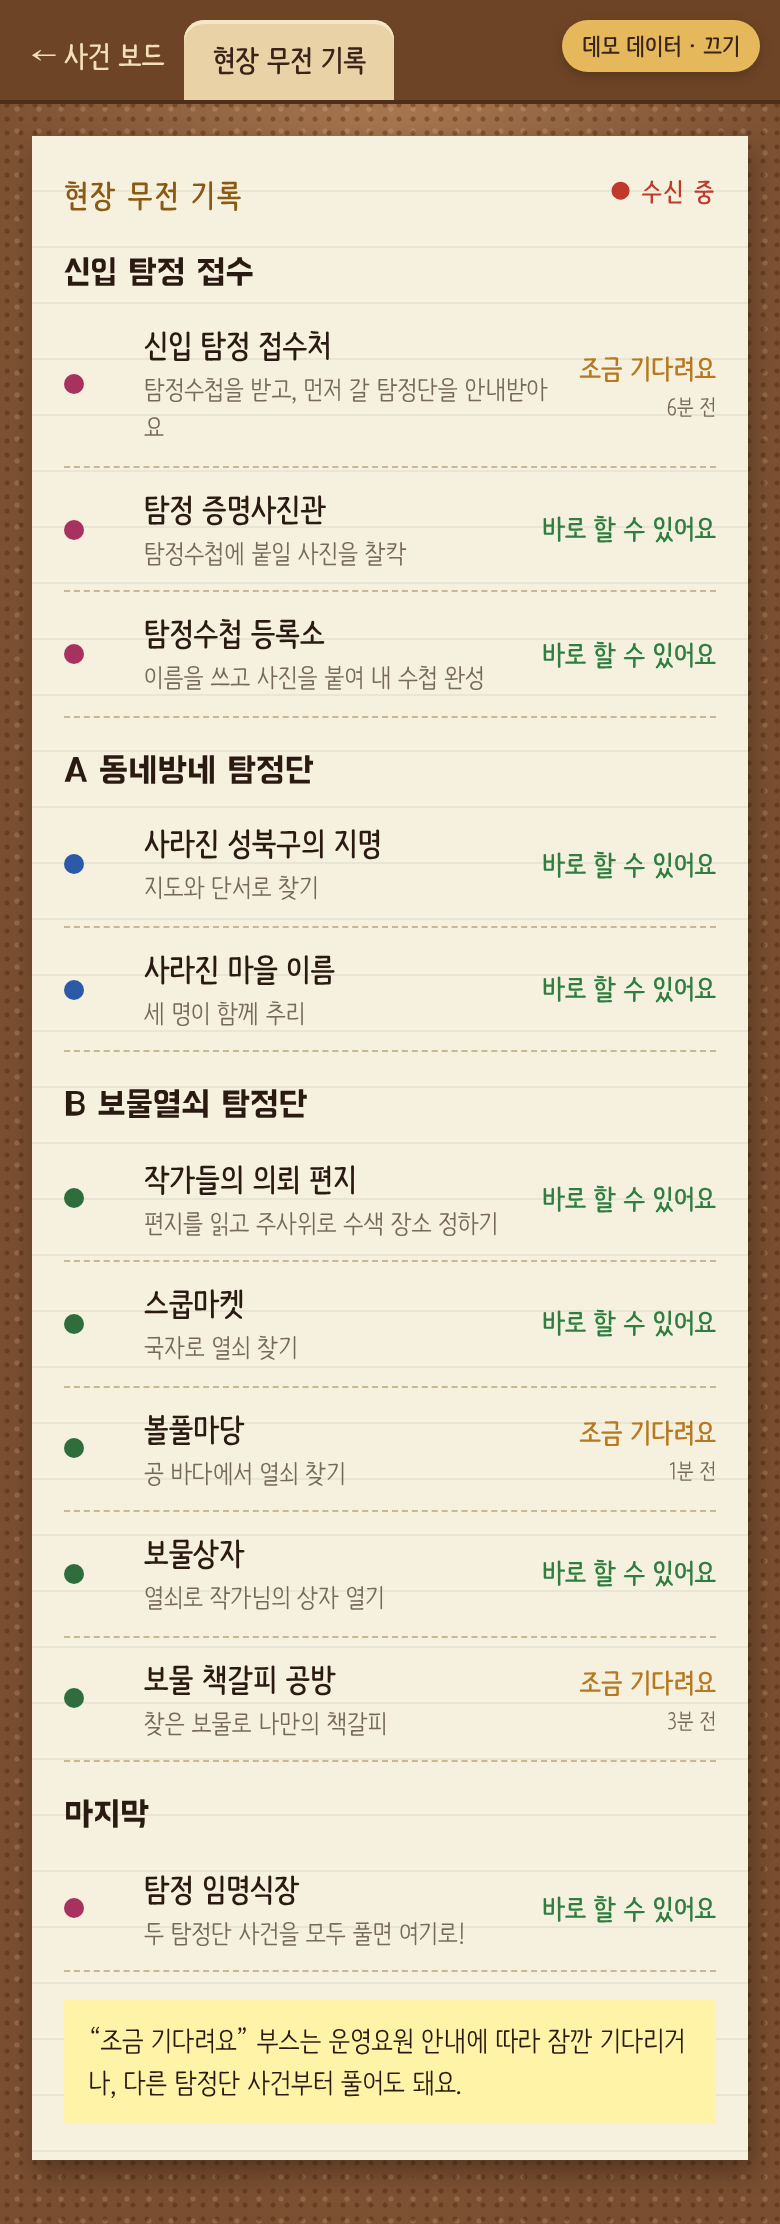
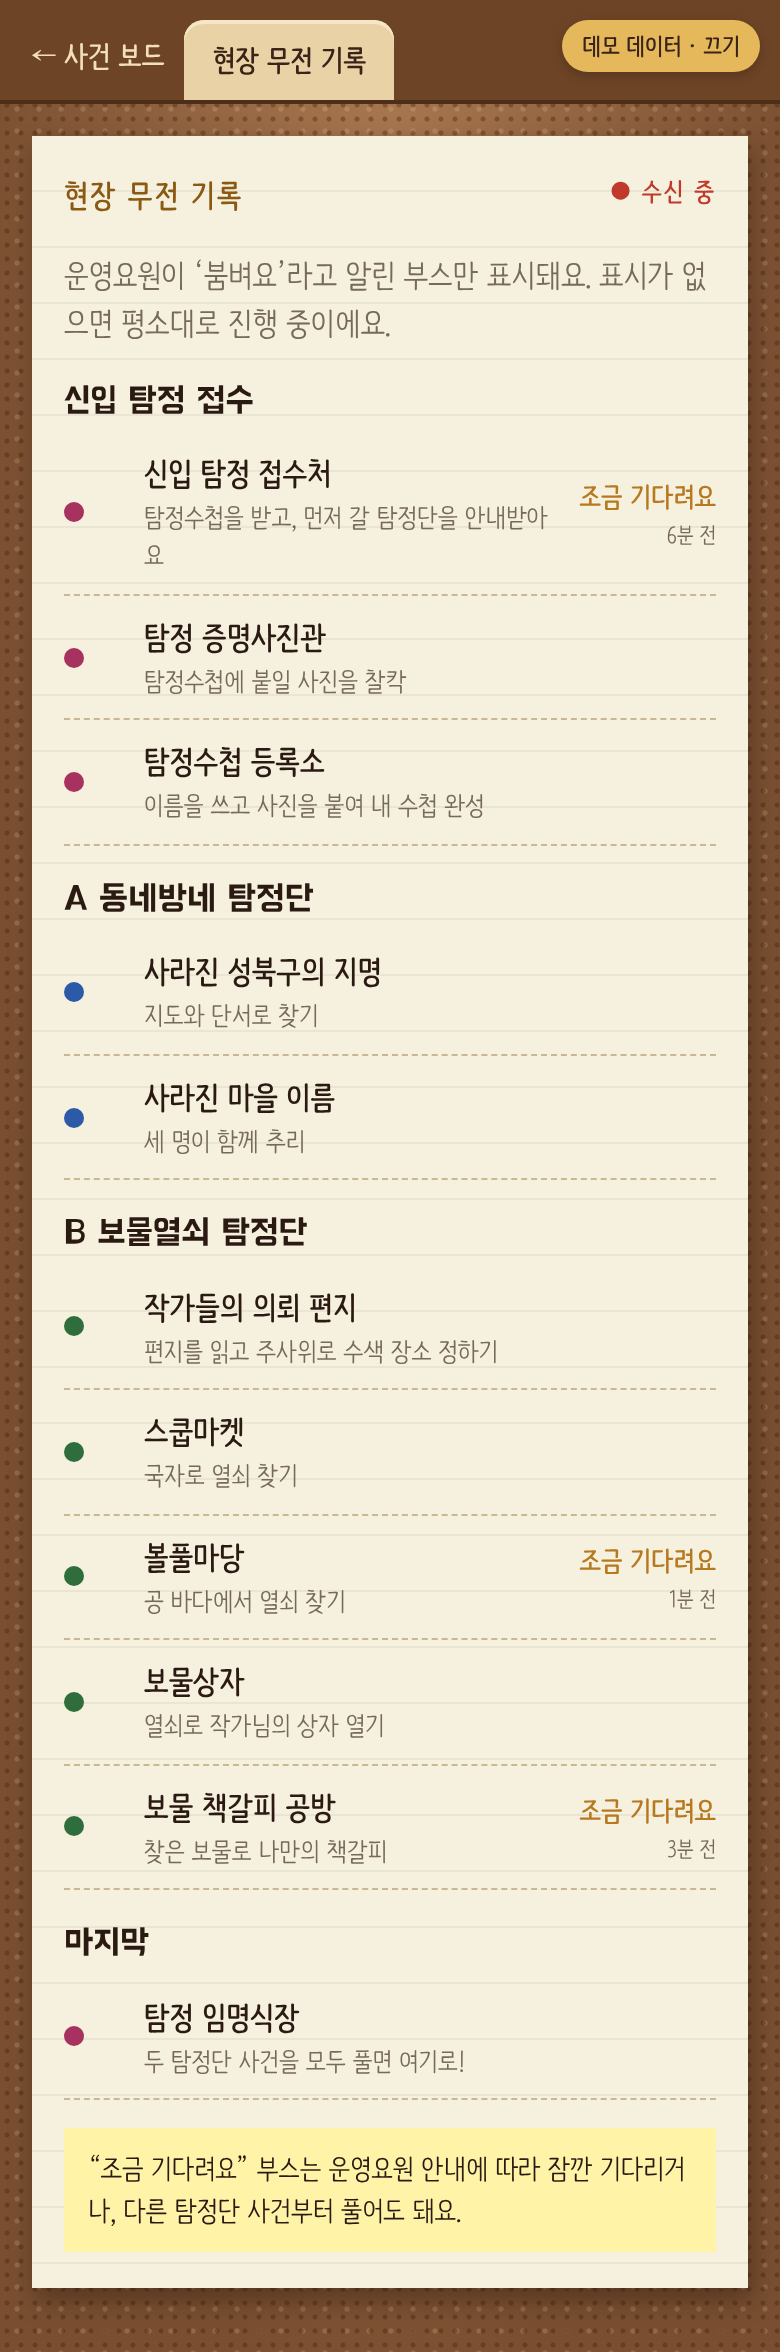
Status auto-resets after 20 min, honest public wording, cipher answer 다다 탐정, 임명 line
Claude-Session: https://claude.ai/code/session_01HunGVxXBvAEHjpVX5R3NVK

diff --git a/src/routes/(public)/cipher/+page.svelte b/src/routes/(public)/cipher/+page.svelte
@@ -2,8 +2,8 @@
 	// 탐정 암호 해독: 네 개의 암호를 풀 때마다 비밀 글자를 하나씩 얻고, 마지막에 순서대로 맞춰요.
 	type Stage = { title: string; how: string; reward: string };
 	const STAGES: Stage[] = [
-		{ title: '거꾸로 암호', how: '글자가 거꾸로 적혀 있어요. 뒤에서부터 읽어 보세요.', reward: '장' },
-		{ title: '숫자 암호', how: '숫자표를 보고 숫자를 글자로 바꿔요. 순서대로 글자를 눌러요.', reward: '위' },
+		{ title: '거꾸로 암호', how: '글자가 거꾸로 적혀 있어요. 뒤에서부터 읽어 보세요.', reward: '다' },
+		{ title: '숫자 암호', how: '숫자표를 보고 숫자를 글자로 바꿔요. 순서대로 글자를 눌러요.', reward: '다' },
 		{ title: '가짜 글자 암호', how: '빨간 글자는 범인이 끼워 넣은 가짜예요! 검은 글자만 읽어요.', reward: '탐' },
 		{ title: '흔적 암호', how: '이 흔적을 남긴 작가님은 누구일까요? 작가 도감에 힌트가 있어요.', reward: '정' }
 	];
@@ -36,16 +36,18 @@
 		}
 	}
 	const got = $derived(STAGES.filter((_, i) => solved[i]).map((s) => s.reward));
-	const tiles = ['탐', '장', '정', '위'];
-	function tapTile(t: string) {
-		if (done || order.includes(t)) return;
-		order = [...order, t];
+	const tiles = ['탐', '다', '정', '다'];
+	let picked = $state<number[]>([]);
+	function tapTile(n: number) {
+		if (done || picked.includes(n)) return;
+		picked = [...picked, n];
+		order = picked.map((i) => tiles[i]);
 		if (order.length === 4) {
-			if (order.join('') === '장위탐정') { done = true; save(); }
-			else { wrong = 9; setTimeout(() => { order = []; wrong = null; }, 900); }
+			if (order.join('') === '다다탐정') { done = true; save(); }
+			else { wrong = 9; setTimeout(() => { order = []; picked = []; wrong = null; }, 900); }
 		}
 	}
-	function reset() { solved = [false, false, false, false]; done = false; order = []; built = []; save(); }
+	function reset() { solved = [false, false, false, false]; done = false; order = []; picked = []; built = []; save(); }
 </script>
 
 <p class="lead">범인이 남긴 암호 전보 네 장! 하나 풀 때마다 <b>비밀 글자</b>를 얻어요. 네 글자를 모아 암호를 완성해 봐요.</p>
@@ -95,12 +97,12 @@
 	{#if got.length < 4}
 		<p class="how">전보 네 장을 모두 풀면 열려요. ({got.length}/4)</p>
 	{:else if !done}
-		<p class="how">비밀 글자를 알맞은 순서로 눌러 우리 동네 탐정 이름을 완성해요.</p>
-		<div class="tiles">{#each tiles as t}<button disabled={order.includes(t)} onclick={() => tapTile(t)}>{t}</button>{/each}</div>
+		<p class="how">비밀 글자를 알맞은 순서로 눌러 우리 탐정사무소 이름을 완성해요.</p>
+		<div class="tiles">{#each tiles as t, n}<button disabled={picked.includes(n)} onclick={() => tapTile(n)}>{t}</button>{/each}</div>
 		<p class="built big">{order.join('') || '_ _ _ _'}</p>
 	{:else}
 		<div class="stamp">암호 해독 완료</div>
-		<p class="win">당신은 이제 <b>장위 탐정</b>!<br />다다탐정사무소 장위지부에 온 걸 환영해요.</p>
+		<p class="win">당신은 이제 <b>다다 탐정</b>!<br />다다탐정사무소 장위지부에 온 걸 환영해요.</p>
 		<button class="again" onclick={reset}>처음부터 다시</button>
 	{/if}
 </section>

diff --git a/src/routes/(public)/+page.svelte b/src/routes/(public)/+page.svelte
@@ -3,10 +3,11 @@
 	import { live } from '$lib/live.svelte';
 	import FloorPlan from '$lib/components/FloorPlan.svelte';
 	import Pin from '$lib/components/Pin.svelte';
+	import { PUBLIC_BOOTHS } from '$lib/public';
 
 	let board: HTMLDivElement;
 	let pins = $state<{ x: number; y: number }[]>([]);
-	const busy = $derived(Object.values(live.status).filter((s) => s.status !== 'ok').length);
+	const busyList = $derived(PUBLIC_BOOTHS.filter((b) => (live.cur(b.key)?.status ?? 'ok') !== 'ok'));
 
 	// 압정 위치를 읽어서 빨간 실을 그려요.
 	function measure() {
@@ -52,8 +53,16 @@
 		<a class="radio" href="/status" data-string="2">
 			<Pin color="#b8862b" />
 			<span class="label">현장 무전</span>
-			<strong>{busy ? `${busy}곳이 붐벼요` : '모든 부스 원활'}</strong>
-			<span class="small">어디가 한산한지 보고 가요</span>
+			{#if !live.enabled}
+				<strong>행사 날 켜져요</strong>
+				<span class="small">붐비는 부스를 운영요원이 알려 줘요</span>
+			{:else if busyList.length}
+				<strong>붐비는 곳 {busyList.length}</strong>
+				<span class="small">{busyList.map((b) => b.short).join(', ')}</span>
+			{:else}
+				<strong>붐빈다는 무전 없음</strong>
+				<span class="small">붐비면 운영요원이 알려 줘요</span>
+			{/if}
 			{#if live.enabled}<span class="live" class:on={live.connected}>● 실시간</span>{/if}
 		</a>
 

diff --git a/src/lib/live.svelte.ts b/src/lib/live.svelte.ts
@@ -2,6 +2,7 @@ import { supabase } from './supabase';
 import { notify } from './push.svelte';
 
 export type Status = 'ok' | 'busy' | 'help';
+export const AUTO_RESET_MIN = 20;
 export type BoothStatus = { booth: string; status: Status; note: string | null; updated_by: string | null; updated_at: string };
 export type BreakRow = { name: string; state: 'out' | 'back'; updated_at: string };
 export type Notice = { id: number; body: string; author: string | null; created_at: string };
@@ -17,7 +18,17 @@ class Live {
 	detectives = $state(0);
 	lastDetectiveAt = $state<string | null>(null);
 	error = $state<string | null>(null);
+	/** 30초마다 갱신되는 현재 시각 (자동 해제 계산용) */
+	now = $state(Date.now());
 	#started = false;
+	#tick = typeof window !== 'undefined' ? setInterval(() => (this.now = Date.now()), 30_000) : null;
+
+	/** 지금 유효한 부스 상태. '대기 많음'·'도움 필요'는 20분 동안 다시 누르지 않으면 자동으로 보통이 돼요. */
+	cur(booth: string): BoothStatus | undefined {
+		const s = this.status[booth];
+		if (!s || s.status === 'ok') return s;
+		return this.now - new Date(s.updated_at).getTime() > AUTO_RESET_MIN * 60_000 ? { ...s, status: 'ok' } : s;
+	}
 
 	async start() {
 		if (this.#started) return;

diff --git a/src/routes/staff/now/+page.svelte b/src/routes/staff/now/+page.svelte
@@ -15,7 +15,7 @@
 			: PEOPLE.filter((p) => p.slots[nextIdx] !== p.slots[shown]).map((p) => ({ name: p.name, to: p.slots[nextIdx], from: p.slots[shown] }))
 	);
 	const minsToNext = $derived(nextIdx === null ? null : toMin(SLOTS[nextIdx]) - clock.min);
-	const alerts = $derived(BOOTHS.filter((b) => live.status[b.key] && live.status[b.key].status !== 'ok'));
+	const alerts = $derived(BOOTHS.filter((b) => (live.cur(b.key)?.status ?? 'ok') !== 'ok'));
 </script>
 
 <section class="stack">
@@ -25,7 +25,7 @@
 	{#if alerts.length}
 		<div class="card alerts">
 			{#each alerts as b}
-				{@const s = live.status[b.key]}
+				{@const s = live.cur(b.key)!}
 				<a href="/staff/booths/{encodeURIComponent(b.key)}" class="al">
 					<span class="chip {s.status}"><i></i>{STATUS_LABEL[s.status]}</span>
 					<b>{b.name}</b>
@@ -38,7 +38,7 @@
 	<div class="grid">
 		{#each BOOTHS as b}
 			{@const hs = holders(b.key, shown)}
-			{@const st = live.status[b.key]?.status ?? 'ok'}
+			{@const st = live.cur(b.key)?.status ?? 'ok'}
 			<a class="bx {st}" href="/staff/booths/{encodeURIComponent(b.key)}" style="--t:{TEAM_COLOR[b.team]};--tb:{TEAM_BG[b.team]}">
 				<span class="nm">{b.name}</span>
 				<span class="who">{hs.length ? hs.join(', ') : '무인'}</span>

diff --git a/src/routes/(public)/status/+page.svelte b/src/routes/(public)/status/+page.svelte
@@ -13,17 +13,18 @@
 
 <div class="log">
 	<p class="head">현장 무전 기록 {#if live.enabled}<span class:on={live.connected}>● {live.connected ? '수신 중' : '연결 중'}</span>{/if}</p>
-	{#if !live.enabled}<p class="off">무전은 행사 당일(10/31)에 켜져요.</p>{/if}
+	{#if !live.enabled}<p class="off">무전은 행사 당일(10/31)에 켜져요.</p>
+	{:else}<p class="off">운영요원이 ‘붐벼요’라고 알린 부스만 표시돼요. 표시가 없으면 평소대로 진행 중이에요.</p>{/if}
 	{#each groups as g}
 		<h2>{g.name}</h2>
 		<ul>
 			{#each g.keys as k}
-				{@const st = live.status[k]}
+				{@const st = live.cur(k)}
 				{@const s = PUBLIC_STATUS[st?.status ?? 'ok']}
 				<li style="--t:{TEAM_COLOR[BOOTH[k].team]}">
 					<span class="k"></span>
 					<span class="tx"><b>{pb[k].title}</b><small>{pb[k].desc}</small></span>
-					{#if live.enabled}<span class="s {s.tone}">{s.label}{#if st && st.status !== 'ok'}<small>{ago(st.updated_at)}</small>{/if}</span>{/if}
+					{#if live.enabled && st && st.status !== 'ok'}<span class="s {s.tone}">{s.label}<small>{ago(st.updated_at)}</small></span>{/if}
 				</li>
 			{/each}
 		</ul>

diff --git a/src/routes/staff/booths/[key]/+page.svelte b/src/routes/staff/booths/[key]/+page.svelte
@@ -8,7 +8,7 @@
 	const b = $derived(BOOTH[data.key]);
 	const iv = $derived(b ? intervals(b.key) : []);
 	const idx = $derived(slotAt(clock.min));
-	const st = $derived(b ? live.status[b.key] : undefined);
+	const st = $derived(b ? live.cur(b.key) : undefined);
 	const span = toMin(SLOTS[11]) - toMin(SLOTS[0]);
 	const pos = (i: number) => ((toMin(SLOTS[i]) - toMin(SLOTS[0])) / span) * 100;
 	const lanes = $derived.by(() => {
@@ -41,6 +41,7 @@
 						<button class="chip {s}" aria-pressed={(st?.status ?? 'ok') === s} onclick={() => live.setStatus(b.key, s, me.name)}><i></i>{STATUS_LABEL[s]}</button>
 					{/each}
 				</div>
+				<p class="small muted">대기 많음·도움 필요는 20분 뒤 자동으로 보통이 돼요. 계속 붐비면 다시 눌러 주세요.</p>
 				<p class="small muted">5분 넘게 기다리는 팀이 생기면 '대기 많음', 사람이 더 필요하면 '도움 필요'. 지원 인원과 운영팀장 화면에 바로 떠요.</p>
 			</div>
 		{/if}

diff --git a/src/lib/components/FloorPlan.svelte b/src/lib/components/FloorPlan.svelte
@@ -43,7 +43,7 @@
 			<text x="268" y="-2.2" class="team" fill="#a8325f">C 콧물탐정단</text>
 			<path d="M300 58 C 285 58, 280 50, 280 44 M14 14 C 6 18, 4 28, 0 32" fill="none" stroke="#b8862b" stroke-width="1.1" stroke-dasharray="2.5 2" marker-end="url(#ar)" />
 			{#each zones as z}
-				{@const st = live.status[z.k]?.status ?? 'ok'}
+				{@const st = live.cur(z.k)?.status ?? 'ok'}
 				<g class:hl={highlight === z.k}>
 					<rect x={z.x} y={z.y} width={z.w} height={z.h} rx="3" fill={BG[z.t]} stroke={C[z.t]} stroke-width={highlight === z.k ? 1.6 : 0.6} />
 					<text x={z.x + z.w / 2} y={z.y + z.h / 2 + 1.6} class="nm" fill={C[z.t]}>{SHORT[z.k]}</text>

diff --git a/src/routes/board/+page.svelte b/src/routes/board/+page.svelte
@@ -39,10 +39,10 @@
 		<FloorPlan showStatus />
 		<div class="st">
 			{#each BOOTHS as b}
-				{@const s = live.status[b.key]?.status ?? 'ok'}
+				{@const s = live.cur(b.key)?.status ?? 'ok'}
 				<div class="row" style="--t:{TEAM_COLOR[b.team]}">
 					<span class="k"></span><span class="n">{pb[b.key]}</span>
-					<span class="chip {s === 'help' ? 'busy' : s}"><i></i>{s === 'ok' ? '바로 가능' : '조금 기다려요'}</span>
+					{#if s !== 'ok'}<span class="chip busy"><i></i>조금 기다려요</span>{/if}
 				</div>
 			{/each}
 		</div>

diff --git a/src/lib/public.ts b/src/lib/public.ts
@@ -16,7 +16,7 @@ export const PUBLIC_BOOTHS: { key: string; title: string; short: string; desc: s
 ];
 
 export const PUBLIC_STATUS: Record<Status, { label: string; tone: 'ok' | 'busy' }> = {
-	ok: { label: '바로 할 수 있어요', tone: 'ok' },
+	ok: { label: '', tone: 'ok' },
 	busy: { label: '조금 기다려요', tone: 'busy' },
 	help: { label: '조금 기다려요', tone: 'busy' }
 };

diff --git a/src/lib/components/StatusChip.svelte b/src/lib/components/StatusChip.svelte
@@ -1,7 +1,7 @@
 <script lang="ts">
 	import { live, STATUS_LABEL } from '$lib/live.svelte';
 	let { booth }: { booth: string } = $props();
-	const s = $derived(live.status[booth]?.status ?? 'ok');
+	const s = $derived(live.cur(booth)?.status ?? 'ok');
 </script>
 
 {#if live.enabled}<span class="chip {s}"><i></i>{STATUS_LABEL[s]}</span>{/if}
